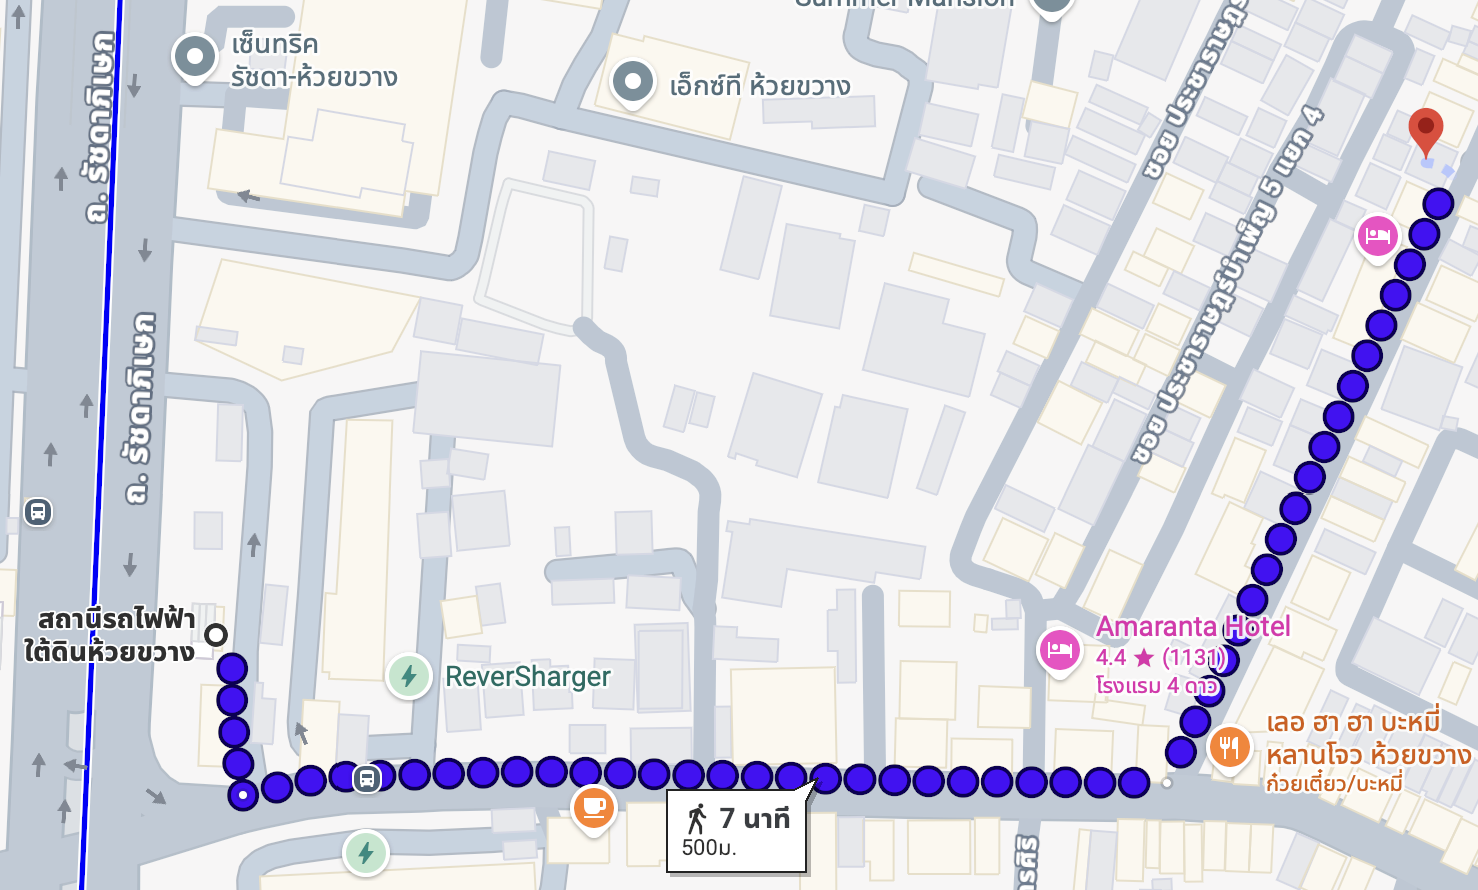
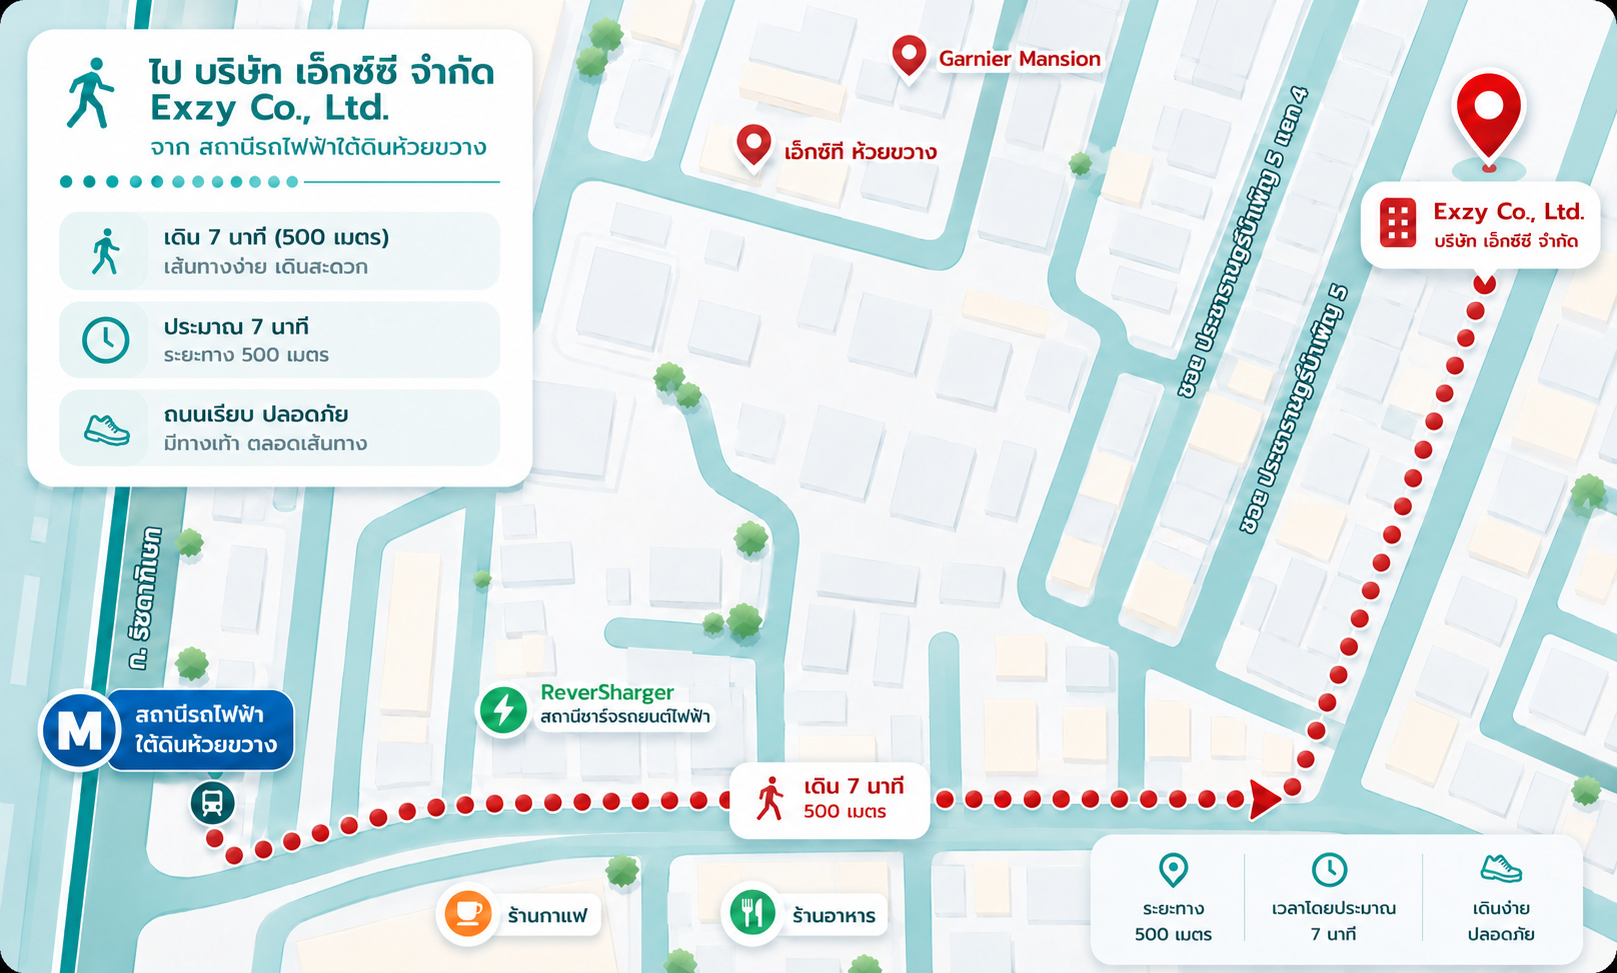
fixx

diff --git a/src/sections/About.jsx b/src/sections/About.jsx
@@ -1,16 +1,76 @@
-import React from 'react';
+import React, { useState, useEffect } from 'react';
+import { ChevronLeft, ChevronRight } from 'lucide-react';
 import insideOffice from '../assets/smart technology exzy.png';
-
+import logoExzy from '../assets/codesk.jpg';
+import whyExzy from '../assets/locker.jpg';
+import meetintouch from '../assets/Meet in touch.png'
+import acces from '../assets/access.png'
+import codesk from '../assets/codesk.png'
 const About = () => {
+  const images = [insideOffice, meetintouch , acces ,codesk];
+  const [currentIndex, setCurrentIndex] = useState(0);
+
+  const nextSlide = () => {
+    setCurrentIndex((prevIndex) => (prevIndex === images.length - 1 ? 0 : prevIndex + 1));
+  };
+
+  const prevSlide = () => {
+    setCurrentIndex((prevIndex) => (prevIndex === 0 ? images.length - 1 : prevIndex - 1));
+  };
+
+  useEffect(() => {
+    const timer = setInterval(() => {
+      nextSlide();
+    }, 4000);
+    return () => clearInterval(timer);
+  }, [currentIndex]);
   return (
     <section id="about" className="py-20 bg-primary-500/5 relative overflow-hidden">
       <div className="max-w-7xl mx-auto px-4 sm:px-6 lg:px-8 relative z-10">
         <div className="flex flex-col md:flex-row gap-12 items-center">
           <div className="w-full md:w-1/2 relative group">
             <div className="absolute inset-0 bg-dark-500 rounded-2xl transform translate-x-4 translate-y-4 transition-transform group-hover:translate-x-2 group-hover:translate-y-2"></div>
-            <div className="aspect-video bg-white rounded-2xl shadow-xl flex items-center justify-center border-2 border-primary-500 relative z-10 overflow-hidden">
-              <div className="absolute inset-0 bg-primary-500/10 opacity-0 group-hover:opacity-100 transition-opacity duration-500"></div>
-              <img src={insideOffice} alt="Exzy Office" className="object-cover w-full h-full transition-transform duration-700 group-hover:scale-110" />
+            <div className="aspect-video bg-white rounded-2xl shadow-xl flex items-center justify-center border-2 border-primary-500 relative z-10 overflow-hidden group">
+              <div className="absolute inset-0 bg-primary-500/10 opacity-0 group-hover:opacity-100 transition-opacity duration-500 z-10 pointer-events-none"></div>
+              
+              {images.map((img, index) => (
+                <div 
+                  key={index}
+                  className={`absolute top-0 left-0 w-full h-full transition-opacity duration-1000 ${
+                    index === currentIndex ? 'opacity-100 z-0' : 'opacity-0 -z-10'
+                  }`}
+                >
+                  <img src={img} alt="" className="absolute inset-0 w-full h-full object-cover blur-md opacity-30 scale-110" />
+                  <img src={img} alt={`Exzy About ${index + 1}`} className="absolute inset-0 w-full h-full object-contain drop-shadow-2xl" />
+                </div>
+              ))}
+
+              {/* Navigation Buttons */}
+              <button 
+                onClick={prevSlide}
+                className="absolute left-4 top-1/2 -translate-y-1/2 z-20 bg-black/40 hover:bg-black/70 text-white p-2 rounded-full transition-all opacity-0 group-hover:opacity-100"
+              >
+                <ChevronLeft size={24} />
+              </button>
+              <button 
+                onClick={nextSlide}
+                className="absolute right-4 top-1/2 -translate-y-1/2 z-20 bg-black/40 hover:bg-black/70 text-white p-2 rounded-full transition-all opacity-0 group-hover:opacity-100"
+              >
+                <ChevronRight size={24} />
+              </button>
+
+              {/* Indicators */}
+              <div className="absolute bottom-4 left-1/2 -translate-x-1/2 z-20 flex gap-2">
+                {images.map((_, index) => (
+                  <button
+                    key={index}
+                    onClick={() => setCurrentIndex(index)}
+                    className={`w-2.5 h-2.5 rounded-full transition-all ${
+                      index === currentIndex ? 'bg-primary-500 w-6' : 'bg-dark-500/30 hover:bg-dark-500/60'
+                    }`}
+                  />
+                ))}
+              </div>
             </div>
           </div>
           <div className="w-full md:w-1/2">

diff --git a/src/sections/WhyExzy.jsx b/src/sections/WhyExzy.jsx
@@ -1,11 +1,12 @@
 import React, { useState, useEffect } from 'react';
 import { ChevronLeft, ChevronRight } from 'lucide-react';
 import Exzyoffice from '../assets/whyexzy.jpg';
-import mapexzy from '../assets/mapexzy1.png';
+import mapexzy from '../assets/mapexzy.png';
 import insideoffice from '../assets/insideoffice.jpg';
 
+
 const WhyExzy = () => {
-  const images = [Exzyoffice, mapexzy];
+  const images = [Exzyoffice, mapexzy ];
   const [currentIndex, setCurrentIndex] = useState(0);
 
   const nextSlide = () => {
@@ -68,14 +69,15 @@ const WhyExzy = () => {
           <div className="w-full lg:w-1/2 flex justify-center items-center lg:pl-8 mt-12 lg:mt-0">
              <div className="w-full aspect-[4/3] bg-dark-400 rounded-3xl border-8 border-primary-500/20 shadow-2xl relative overflow-hidden group">
                  {images.map((img, index) => (
-                   <img
+                   <div 
                      key={index}
-                     src={img}
-                     alt={`Exzy Slide ${index + 1}`}
-                     className={`absolute top-0 left-0 w-full h-full object-contain transition-opacity duration-1000 ${
+                     className={`absolute top-0 left-0 w-full h-full transition-opacity duration-1000 ${
                        index === currentIndex ? 'opacity-100 z-10' : 'opacity-0 z-0'
                      }`}
-                   />
+                   >
+                     <img src={img} alt="" className="absolute inset-0 w-full h-full object-cover blur-md opacity-30 scale-110" />
+                     <img src={img} alt={`Exzy Slide ${index + 1}`} className="absolute inset-0 w-full h-full object-contain drop-shadow-2xl" />
+                   </div>
                  ))}
                  
                  {/* Navigation Buttons */}

diff --git a/src/sections/Projects.jsx b/src/sections/Projects.jsx
@@ -1,11 +1,12 @@
 import React, { useState } from 'react';
 import ProjectCard from '../components/ProjectCard';
 import ProjectModal from '../components/ProjectModal';
-import onsiteImg from '../assets/onsite.jpg';
+import onsiteImg from '../assets/onsite2.jpg';
+import codesk from '../assets/codesk.jpg'
 import attendanceImg from '../assets/attandance1.jpg';
 import attendanceImg1 from '../assets/attandance2.jpg';
 import obsidianImg1 from '../assets/node obsidian.png';  
-import onsiteImg1 from '../assets/onsite2.jpg';
+import onsiteImg1 from '../assets/locker.jpg';
 import obsidianflow from '../assets/obsidian_kb_creation_flow.jpg';
 import onsiteflow from '../assets/onsite_support_flow.jpg';
 import attendanceflow from '../assets/attendance_app_install_flow.jpg';
@@ -23,9 +24,9 @@ const Projects = () => {
     {
       id: 2,
       title: "การออกหน้างาน (On-site Support) กับพี่เลี้ยง",
-      description: "อันนี้จะเป็นงานหลักของเราเลยครับ เราจะได้ออกหน้างานจริงกับพี่เลี้ยงจริงๆ เพื่อดูปัญหาจากลูกค้าที่แจ้งเข้ามาและแก้ไขปัญหาให้ลูกค้า เราจะได้รู้จักปัญหาที่เกิดขึ้นจากตัวฮาร์ดแวร์หรือซอฟต์แวร์แล้วก็วิธีแก้ไขปัญหาได้จริงๆ และได้ทักษะการสื่อสารกับลูกค้าด้วยครับ ซึ่งจำเป็นกับการทำงานของเราในอนาคตเลย",
+      description: "อันนี้จะเป็นงานหลักของเราเลยครับ เราจะได้ออกหน้างานจริงกับพี่เลี้ยงจริงๆ เพื่อดูปัญหาจากลูกค้าที่แจ้งเข้ามาและแก้ไขปัญหาให้ลูกค้า ซึ่งในภาพจะเป็นระบบ Locker space และ Co-desk เราจะได้รู้จักปัญหาที่เกิดขึ้นจากตัวฮาร์ดแวร์หรือซอฟต์แวร์แล้วก็วิธีแก้ไขปัญหาได้จริงๆ และได้ทักษะการสื่อสารกับลูกค้าด้วยครับ ซึ่งจำเป็นกับการทำงานของเราในอนาคตเลย",
       tags: ["Problem Solving", "Onsite Service"],    
-      images: [onsiteImg1, onsiteImg, onsiteflow]
+      images: [onsiteImg,codesk, onsiteImg1, onsiteflow]
     } , 
     {
       id: 3,

diff --git a/index.html b/index.html
@@ -5,6 +5,9 @@
     <link rel="icon" type="image/svg+xml" href="/favicon.svg" />
     <meta name="viewport" content="width=device-width, initial-scale=1.0" />
     <title>exzy-intern-review</title>
+    <link rel="preconnect" href="https://fonts.googleapis.com">
+    <link rel="preconnect" href="https://fonts.gstatic.com" crossorigin>
+    <link href="https://fonts.googleapis.com/css2?family=IBM+Plex+Sans+Thai:wght@300;400;500;600;700&display=swap" rel="stylesheet">
   </head>
   <body>
     <div id="root"></div>

diff --git a/src/index.css b/src/index.css
@@ -1,6 +1,7 @@
 @import "tailwindcss";
 
 @theme {
+  --font-sans: 'Google Sans', 'IBM Plex Sans Thai', ui-sans-serif, system-ui, sans-serif;
   --color-primary-50: #eff9f9;
   --color-primary-100: #d4ecec;
   --color-primary-500: #26a3a3; /* Lighter Teal/Cyan */
@@ -24,6 +25,6 @@
   
   body {
     @apply bg-slate-50 text-slate-900 antialiased;
-    font-family: 'Inter', system-ui, -apple-system, sans-serif;
+    font-family: 'Google Sans', 'IBM Plex Sans Thai', system-ui, -apple-system, sans-serif;
   }
 }

diff --git a/src/components/Footer.jsx b/src/components/Footer.jsx
@@ -8,7 +8,7 @@ const Footer = () => {
       <div className="max-w-7xl mx-auto px-4 sm:px-6 lg:px-8 text-center relative z-10">
         <div className="flex items-center justify-center gap-2 mb-4">
           <img src={exzyLogo} alt="Exzy Logo" className="w-8 h-8 object-contain border border-white rounded-lg" />
-          <span className="font-bold text-xl text-white">Intern Review</span>
+          <span className="font-bold text-xl text-white">Internship Review</span>
         </div>
         <p className="text-primary-100/60 mt-4">© 2026 IT Support Internship by tanakorn</p>
       </div>

diff --git a/src/components/Navbar.jsx b/src/components/Navbar.jsx
@@ -28,7 +28,7 @@ const Navbar = () => {
         <div className="flex justify-between h-16 items-center">
           <div className="flex-shrink-0 flex items-center gap-2">
             <img src={exzyLogo} alt="Exzy Logo" className="w-8 h-8 object-contain border border-white rounded-lg" />
-            <span className="font-semibold text-xl text-dark-500 border-l-2 border-primary-500 pl-2 ml-1">Intern Review</span>
+            <span className="font-semibold text-xl text-dark-500 border-l-2 border-primary-500 pl-2 ml-1">Internship Review</span>
           </div>
           
           <div className="hidden lg:flex space-x-6 xl:space-x-8">

diff --git a/src/sections/Hero.jsx b/src/sections/Hero.jsx
@@ -30,7 +30,7 @@ const Hero = () => {
             </h1>
             
             <p className="text-lg md:text-xl text-dark-500/80 max-w-xl mb-10 leading-relaxed">
-              ผมชื่อ นายธนกร ทิพย์วารีรัตนะ เป็นนักศึกษาฝึกงานด้าน IT Support ที่ Exzy ในช่วงมิถุนายน - กรกฎาคม 2026 ในบทความนี้ ผมจะแชร์ประสบการณ์การฝึกงานของผมกันครับ
+             สวัสดีครับ ผมชื่อ ธนกร ทิพย์วารีรัตนะ นักศึกษาจากคณะเทคโนโลยีสารสนเทศและการสื่อสาร เลือกมาฝึกงานในตำแหน่ง IT Support กับบริษัท Exzy บริษัทผู้พัฒนาโซลูชันด้าน Smart Office และ Smart Workplace ตลอดระยะเวลากว่า 2 เดือน ผมได้เรียนรู้ทั้งการลงหน้างานกับพี่ๆ การติดตั้งและตั้งค่าระบบเบื้องต้น รวมถึงการจัดทำคลังข้อมูล บทความนี้จะพาทุกคนไปดูว่าการฝึกงานที่ Exzy เป็นอย่างไร และผมได้เรียนรู้อะไรจากประสบการณ์ครั้งนี้บ้างครับ
             </p>
 
             